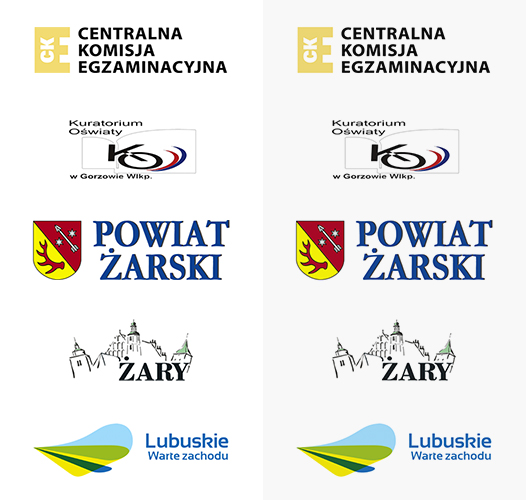
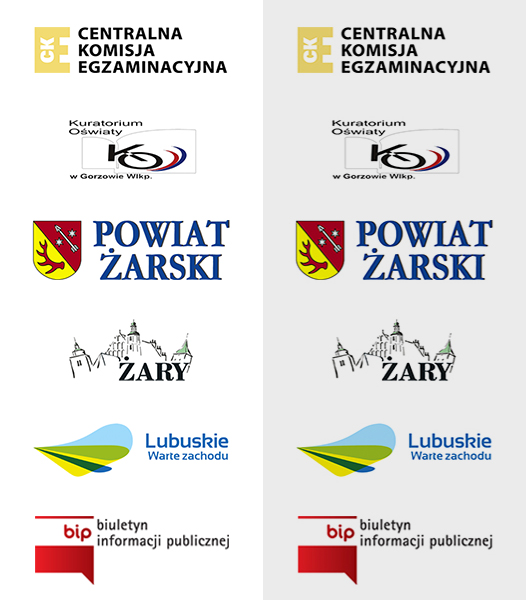
bip link

diff --git a/application/static/css/main.css b/application/static/css/main.css
@@ -22,12 +22,12 @@ body {
 .lz-header .header {
     background-color: transparent;
     height: 196px;
-    margin-top: 0px;
+    margin-top: 0;
 }
 
 .lz-header {
     background: transparent url('../images/background-top.jpg') repeat-x;
-    background-position: 0px 0px;
+    background-position: 0 0;
 }
 
 .lz-footer {
@@ -41,13 +41,13 @@ body {
 .lz-footer .panel-heading,
 .lz-footer .list-group-item  {
     background-color: #585858;
-    border-width: 0px;
+    border-width: 0;
 }
 
 .navbar-custom {
-    margin-bottom: 0px;
+    margin-bottom: 0;
     background-color: #000;
-    border-radius: 0px;
+    border-radius: 0;
 }
 
 .lz-menu {
@@ -55,7 +55,7 @@ body {
 }
 
 .lz-menu .container {
-    padding: auto 0px;
+    padding: auto 0;
 }
 
 .lz-menu-nav {
@@ -93,7 +93,7 @@ body {
 .lz-menu-nam li,
 .nav-pills > li + li {
     padding:0px;
-    margin: 0px;
+    margin: 0;
 }
 
 .nav .open > a,
@@ -105,20 +105,20 @@ body {
 .lz-menu-nam li.dropdown a,
 .nav-pills > li.dropdown a,
 .nav-pills > li a {
-    border-radius: 0px;
-    margin: 0px;
+    border-radius: 0;
+    margin: 0;
     padding:0px;
     height: 46px;
     line-height: 46px;
 }
 
 .nav-pills > li.dropdown:first-of-type a {
-    border-left-width: 0px;
+    border-left-width: 0;
 }
 
 .nav-pills > li a {
     border: 1px solid #333366;
-    border-width: 0px 0px 0px 1px;
+    border-width: 0 0 0 1px;
 }
 
 .nav-pills.lz-menu-nav > li {
@@ -126,25 +126,25 @@ body {
 
 
 ul.lz-menu-nav > li:first-child{
-    border-width: 0px 0px 0px 0px;
-    padding: 0px;
+    border-width: 0 0 0 0;
+    padding: 0;
 }
 
 .lz-menu-nav li a:hover,
 .lz-menu-nav .dropdown.open a {
-    border-radius: 0px;
+    border-radius: 0;
     color: #34346A;
     background-color: #fff;
 }
 
 .lz-menu-nav li.col-lg-2.col-sm-2.col-xs-6 {
-    padding: 0px;
+    padding: 0;
 }
 
 .lz-menu-nav .dropdown-menu {
-    margin: 0px;
-    padding: 0px;
-    border-width: 0px;
+    margin: 0;
+    padding: 0;
+    border-width: 0;
 }
 
 .lz-menu-nav li a:hover {
@@ -165,9 +165,9 @@ ul.dropdown-menu.lz-menu-sub {
     padding:0px;
     margin:0px;
     border: 1px solid #343467;
-    border-width: 0px 1px 1px 1px;
-    border-radius: 0px;
-    box-shadow: 0px 20px 30px rgba(0, 0, 0, 0.35);;
+    border-width: 0 1px 1px 1px;
+    border-radius: 0;
+    box-shadow: 0 20px 30px rgba(0, 0, 0, 0.35);;
 
     position: absolute;
     top: 100%;
@@ -189,8 +189,8 @@ ul.dropdown-menu.lz-menu-sub {
 
 ul.dropdown-menu.lz-menu-sub a,
 ul.dropdown-menu.lz-menu-sub li {
-    padding: 0px;
-    margin: 0px;
+    padding: 0;
+    margin: 0;
 }
 
 .nav-pills .lz-menu-sub > li a {
@@ -200,10 +200,10 @@ ul.dropdown-menu.lz-menu-sub li {
 }
 
 ul.dropdown-menu.lz-menu-sub a {
-    border-width: 0px;
+    border-width: 0;
     font-size:14px;
     padding: 4px;
-    margin: 0px;
+    margin: 0;
     text-align: left;
 }
 
@@ -216,7 +216,7 @@ ul.dropdown-menu.lz-menu-sub a {
 }
 
 .lz-content .page-header{
-    margin-top: 0px;
+    margin-top: 0;
 }
 
 .lz-content .page-header h1{
@@ -267,11 +267,11 @@ ul.dropdown-menu.lz-menu-sub a {
     background-color: rgba(0, 0, 0, 0.6);
     display: block;
     padding: 8px;
-    margin: 0px;
+    margin: 0;
     text-align: left;
-    bottom: 0px;
-    right: 0px;
-    left: 0px;
+    bottom: 0;
+    right: 0;
+    left: 0;
     font-size: 18px;
     font-family: Calibri, "Lucida Grande" , "Helvetica Neue", Arial, sans-serif;
     font-weight: 400;
@@ -303,7 +303,7 @@ ul.dropdown-menu.lz-menu-sub a {
 
 .lz-carousel-navi-item h4 {
     font-size: 15px;
-    padding: 4px 0px 0px 0px;
+    padding: 4px 0 0 0;
 }
 
 .lz-carousel-navi-item p {
@@ -339,7 +339,7 @@ ul.dropdown-menu.lz-menu-sub a {
 
 .lz-carousel-navi-item.list-group-item:first-child,
 .lz-carousel-navi-item.list-group-item:last-child {
-    border-radius: 0px;
+    border-radius: 0;
 }
 
 .btn-more {
@@ -350,7 +350,7 @@ ul.dropdown-menu.lz-menu-sub a {
 .carousel-thumb {
     padding: 4px;
     border: 1px solid #dedede;
-    margin: 1px 10px 0px 0px;
+    margin: 1px 10px 0 0;
 }
 
 .lz-carousel-navi-item.active .carousel-thumb {
@@ -358,8 +358,8 @@ ul.dropdown-menu.lz-menu-sub a {
 }
 
 .footer-copyrights {
-    margin: 0px;
-    padding: 15px 0px 0px 0px;
+    margin: 0;
+    padding: 15px 0 0 0;
     font-size: 12px;
 }
 
@@ -380,7 +380,7 @@ ul.dropdown-menu.lz-menu-sub a {
 }
 
 .breadcrumb {
-    border-radius: 0px;
+    border-radius: 0;
 }
 
 .lz-news-full p a > img {
@@ -407,46 +407,55 @@ ul.dropdown-menu.lz-menu-sub a {
 
 .list-group-item-image-cku {
     background-image: url('../images/links.jpg');
-    background-position: 0px 0px;
+    background-position: 0 0;
 }
 
 .list-group-item-image-cku:hover {
-    background-position: 263px 0px;
+    background-position: 263px 0;
 }
 
 .list-group-item-image-ko-gorzow {
     background-image: url('../images/links.jpg');
-    background-position: 0px 400px;
+    background-position: 0 500px;
 }
 
 .list-group-item-image-ko-gorzow:hover {
-    background-position: 263px 400px;
+    background-position: 263px 500px;
 }
 
 .list-group-item-image-powiat-zary {
     background-image: url('../images/links.jpg');
-    background-position: 0px 300px;
+    background-position: 0 400px;
 }
 
 .list-group-item-image-powiat-zary:hover {
-    background-position: 263px 300px;
+    background-position: 263px 400px;
 }
 
 .list-group-item-image-zary {
     background-image: url('../images/links.jpg');
-    background-position: 0px 200px;
+    background-position: 0 300px;
 }
 
 .list-group-item-image-zary:hover {
-    background-position: 263px 200px;
+    background-position: 263px 300px;
 }
 
 .list-group-item-image-lubuskie {
     background-image: url('../images/links.jpg');
-    background-position: 0px 100px;
+    background-position: 0 200px;
 }
 
 .list-group-item-image-lubuskie:hover {
+    background-position: 263px 200px;
+}
+
+.list-group-item-image-bip {
+    background-image: url('../images/links.jpg');
+    background-position: 0 100px;
+}
+
+.list-group-item-image-bip:hover {
     background-position: 263px 100px;
 }
 
@@ -464,13 +473,13 @@ ul.dropdown-menu.lz-menu-sub a {
 #CookielawBanner .icon {
     font-size: 32px;
     color: #FFC800;
-    margin: 0px 10px 10px 0px;
+    margin: 0 10px 10px 0;
 }
 
 #CookielawBanner .btn-primary {
     background-color: #9999CC;
     border-color: #9999CC;
-    border-radius: 0px;
+    border-radius: 0;
     margin-bottom: 8px;
     margin-left: 8px;
 }
@@ -481,9 +490,9 @@ ul.dropdown-menu.lz-menu-sub a {
 }
 
 .fc-event {
-    border-radius: 0px;
-    margin: 0px 0px 1px 0px;
-    border-width: 0px;
+    border-radius: 0;
+    margin: 0 0 1px 0;
+    border-width: 0;
     background-color: #DADAEE;
     color: #6D6DA1;
     padding: 2px 4px;
@@ -564,10 +573,10 @@ ul.dropdown-menu.lz-menu-sub a {
 .pager li > span,
 .panel,
 .panel-heading {
-    border-radius: 0px;
+    border-radius: 0;
 }
 .panel-paddingless {
-    padding: 0px;
+    padding: 0;
 }
 .panel-paddingless span.category {
     font-size: 14px;
@@ -580,20 +589,20 @@ ul.dropdown-menu.lz-menu-sub a {
 }
 
 .panel-body-photo {
-    padding: 0px;
+    padding: 0;
 }
 
 .thumbnail {
-    border-radius: 0px;
+    border-radius: 0;
 }
 
 .panel-body-photo .thumbnail {
     width:50%;
     float: left;
-    padding: 0px;
-    margin: 0px;
-    border: 0px solid #fff;
-    border-radius: 0px;
+    padding: 0;
+    margin: 0;
+    border: 0 solid #fff;
+    border-radius: 0;
 }
     
 .panel-heading-time {
@@ -609,7 +618,7 @@ ul.dropdown-menu.lz-menu-sub a {
 .panel-heading .social {
     width: 100px;
     height: 25px;
-    padding: 0px;
+    padding: 0;
     list-style: none;
 }
 
@@ -648,11 +657,11 @@ ul.dropdown-menu.lz-menu-sub a {
 }
 
 .event-calendar > table.month {
-    border-spacing: 0px;
+    border-spacing: 0;
     border-collapse: collapse;
     width: 100%;
     max-width: 100%;
-    border: 0px solid red;
+    border: 0 solid red;
 }
 
 .event-calendar .table > thead > tr > th,
@@ -789,7 +798,7 @@ ul.dropdown-menu.lz-menu-sub a {
 }
 
 .alert {
-    border-radius: 0px;
+    border-radius: 0;
 }
 
 .alert-info {
@@ -800,5 +809,5 @@ ul.dropdown-menu.lz-menu-sub a {
 
 .panel > .list-group .list-group-item,
 .panel > .panel-collapse > .list-group .list-group-item {
-    border-radius: 0px;
+    border-radius: 0;
 }

diff --git a/application/templates/common/links.html b/application/templates/common/links.html
@@ -11,6 +11,7 @@
 
 <div class="panel panel-default visible-md visible-lg">
     <div class="list-group">
+        <a href="http://bip.wrota.lubuskie.pl/zsozary/" class="list-group-item list-group-item-image list-group-item-image-bip"></a>
         <a href="http://www.cke.edu.pl/" class="list-group-item list-group-item-image list-group-item-image-cku"></a>
         <a href="http://www.ko-gorzow.edu.pl/" class="list-group-item list-group-item-image list-group-item-image-ko-gorzow"></a>
         <a href="http://www.powiatzary.pl/" class="list-group-item list-group-item-image list-group-item-image-powiat-zary"></a>
